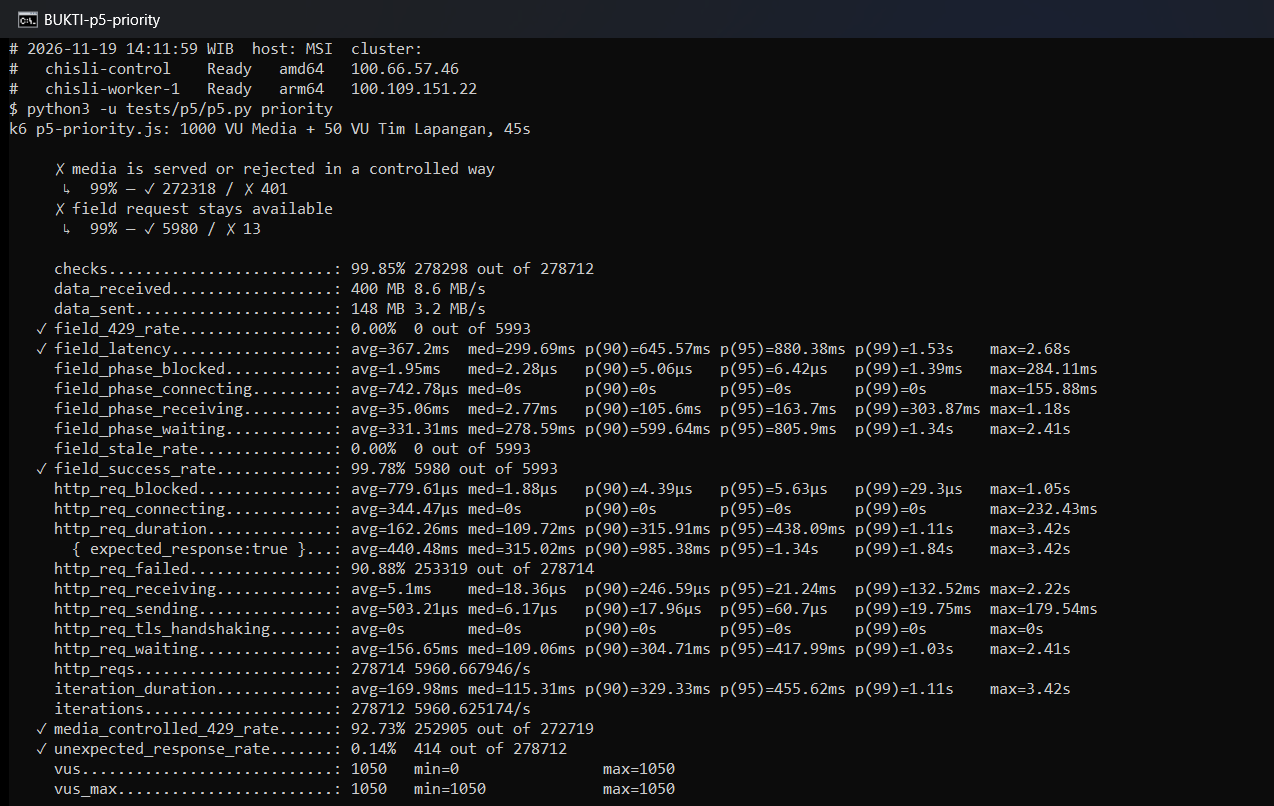
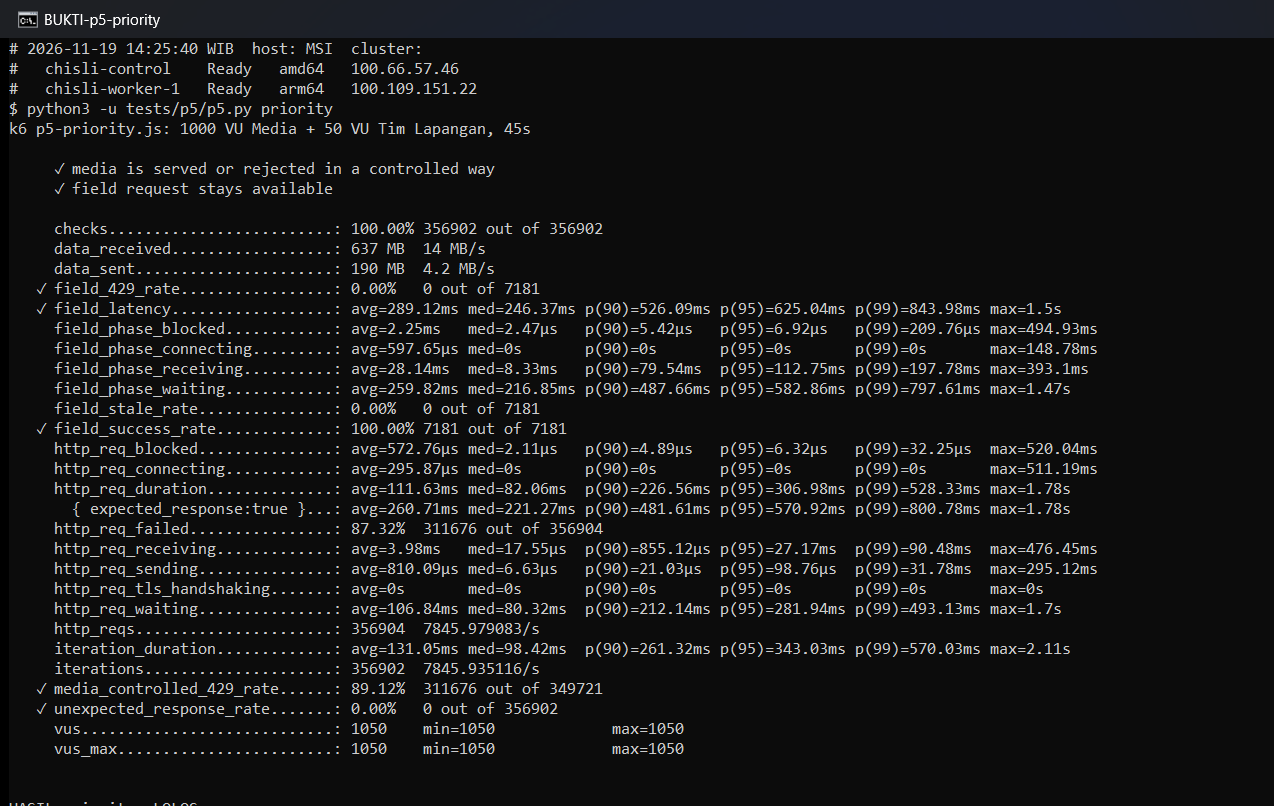
P5 priority: two consecutive passing runs (Field Team 100%, p95 0.63s and 0.45s, 0% stale) with notes

diff --git a/tests/k6/p5-priority.js b/tests/k6/p5-priority.js
@@ -1,6 +1,6 @@
 import http from 'k6/http';
 import { check, fail } from 'k6';
-import { Rate, Trend } from 'k6/metrics';
+import { Counter, Rate, Trend } from 'k6/metrics';
 
 const apiBaseURL = (__ENV.BASE_URL || __ENV.API_BASE_URL || 'http://localhost:8080').replace(/\/$/, '');
 const authBaseURL = (__ENV.AUTH_BASE_URL || 'http://localhost:8091').replace(/\/$/, '');
@@ -11,6 +11,12 @@ const fieldRejected = new Rate('field_429_rate');
 const fieldLatency = new Trend('field_latency', true);
 // Jawaban Tim Lapangan yang berupa hasil terakhir (aggregator lambat/gagal), ditandai header X-Data-Stale-Seconds.
 const fieldStale = new Rate('field_stale_rate');
+// Rincian kegagalan Tim Lapangan: 0 = gagal di jaringan (tanpa respons HTTP), selain itu kode HTTP.
+const fieldFailNetwork = new Counter('field_fail_network');
+const fieldFail502 = new Counter('field_fail_502');
+const fieldFail503 = new Counter('field_fail_503');
+const fieldFail504 = new Counter('field_fail_504');
+const fieldFailOther = new Counter('field_fail_other');
 const fieldStaleAge = new Trend('field_stale_age_seconds');
 const fieldBlocked = new Trend('field_phase_blocked', true);
 const fieldConnecting = new Trend('field_phase_connecting', true);
@@ -125,6 +131,10 @@ export function fieldTraffic(data) {
   fieldSuccess.add(success);
   fieldRejected.add(response.status === 429);
   fieldLatency.add(response.timings.duration);
+  if (!success) {
+    const st = response.status;
+    (st === 0 ? fieldFailNetwork : st === 502 ? fieldFail502 : st === 503 ? fieldFail503 : st === 504 ? fieldFail504 : fieldFailOther).add(1);
+  }
   const staleAge = response.headers['X-Data-Stale-Seconds'];
   fieldStale.add(success && staleAge !== undefined);
   if (staleAge !== undefined) fieldStaleAge.add(Number(staleAge));

diff --git a/docs/bukti/p5/2node/CATATAN-priority.md b/docs/bukti/p5/2node/CATATAN-priority.md
@@ -1,0 +1,25 @@
+# P5 kriteria 5: Tim Lapangan tetap dilayani saat Media dibanjiri
+
+Bukti utama: `img/priority.png`, `logs/priority.log`, `p5_priority.json` (1000 VU Media + 50 VU Tim Lapangan, 45 dtk).
+Konfirmasi: `priority-konfirmasi/` (run kedua, konfigurasi sama).
+
+| Run | Tim Lapangan sukses | p95 | p99 | Jawaban stale |
+|---|---|---|---|---|
+| bukti | 100% (7.181/7.181) | 0,63 dtk | 0,84 dtk | 0% |
+| konfirmasi | 100% (9.536/9.536) | 0,45 dtk | 0,65 dtk | 0% |
+
+Perjalanan perbaikan (setiap run gagal disimpan di folder `temuan-priority-*` dan `sebelum-*`):
+
+1. Batas in-flight per pod disesuaikan terhadap kapasitas aggregator lintas replika (72-80% -> 85%).
+2. Pembacaan lintas unit penyimpanan selesai begitu unit yang menjawab mencakup seluruh data (RF=2), tanpa menunggu unit
+   lambat di seberang Tailscale (85% -> 97%).
+3. Hedging panggilan kelas prioritas, log 429 disampel, dan batas tunggu Tim Lapangan 2 dtk dengan jawaban terakhir bertanda
+   stale (maks 30 dtk) sebagai degradasi terkendali.
+4. Akar masalah terakhir: Traefik hanya ada di node control, tetapi pod API tersebar ke worker, sehingga setengah lalu lintas
+   ingress menyeberang Tailscale yang jenuh oleh banjir Media (pod di control p99 108 ms, pod di worker p99 2,6 dtk, 378 dari
+   1.980 permintaan tidak pernah sampai ke pod). Pod API kini diutamakan di node ingress -> 100%.
+5. Percobaan nativelb + trafficDistribution PreferSameNode menghasilkan 502 dari Traefik di bawah beban, jadi dicabut
+   (`temuan-priority-nativelb`).
+
+Cache 1 dtk untuk kelas Media sempat dicoba dan memperburuk hasil (Media lebih banyak dilayani sehingga beban ingress naik);
+kodenya tetap ada tetapi dimatikan (`temuan-priority-run4-cache`).
